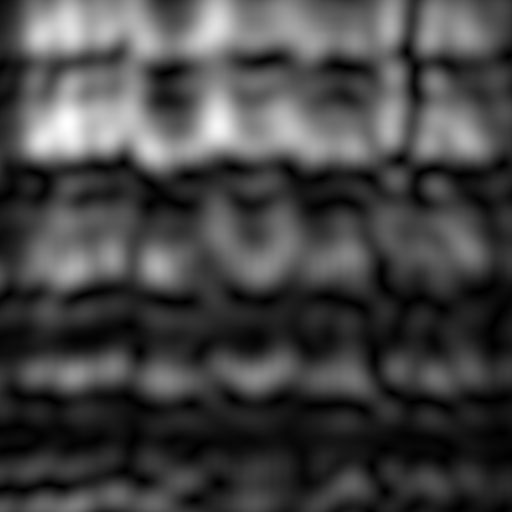
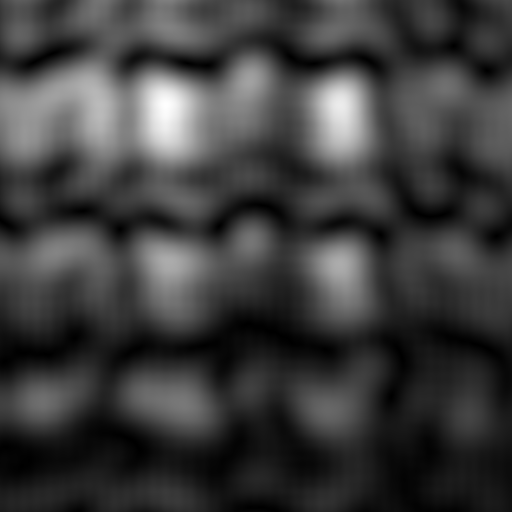
Pasar el ejemplo del pipeline a 633 nm y regenerar los campos
La demostracion de pipeline.py propagaba a 405 nm. Se pasa a 633 nm, que es la
linea del HeNe con la que estan escritos la Tabla 1 del paper, conftest.py y
scripts/exactitud.py: tener el ejemplo en otra longitud de onda obligaba a
recalcular mentalmente cada vez que se comparaba una figura del pipeline con
una del barrido de exactitud.

Los PNG de resultados/campos/ se regeneran con el nuevo valor, porque son
salidas de esa misma demostracion y quedaban describiendo un montaje que el
codigo ya no simula.

La CLI de CamposT.retropropagacion mantiene 405 nm por defecto a proposito: ahi
el valor no ilustra nada, lo pone quien tenga el laser delante.

diff --git a/CamposT/pipeline.py b/CamposT/pipeline.py
@@ -138,7 +138,7 @@ if __name__ == "__main__":
     # --- parámetros de ejemplo (unidades: mm) ---
     N = 512
     delta = 3.45e-3        # paso de píxel del sensor, 3.45 µm
-    lamb = 405e-6          # 405 nm
+    lamb = 633e-6          # 633 nm
 
     if gpu_disponible():
         gi = info_gpu()
